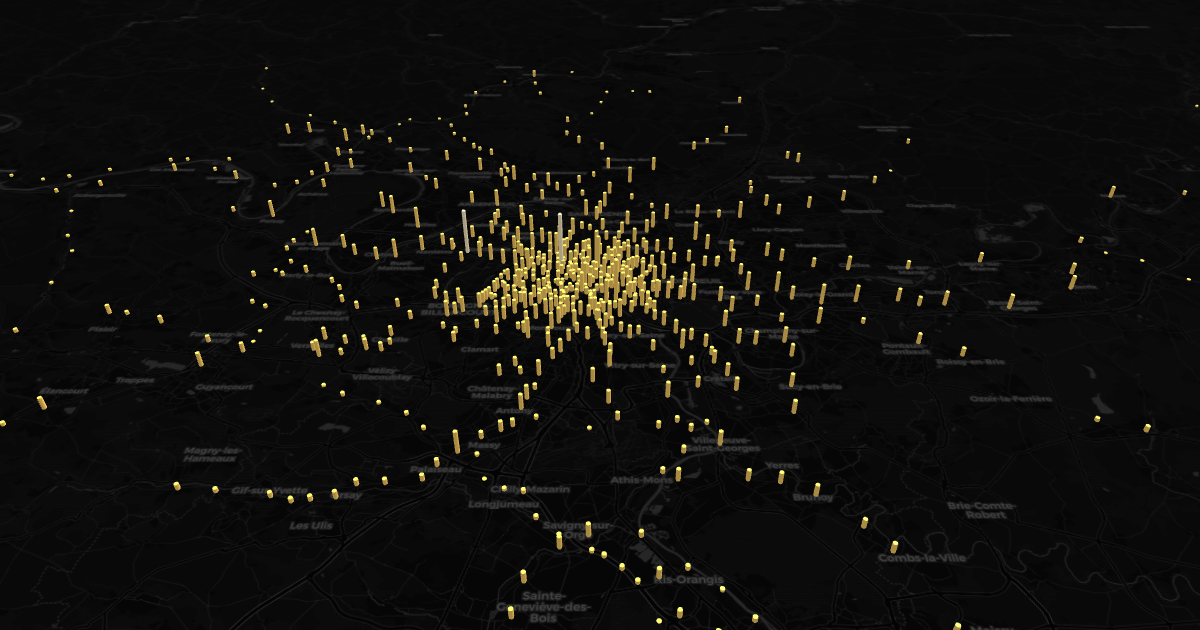
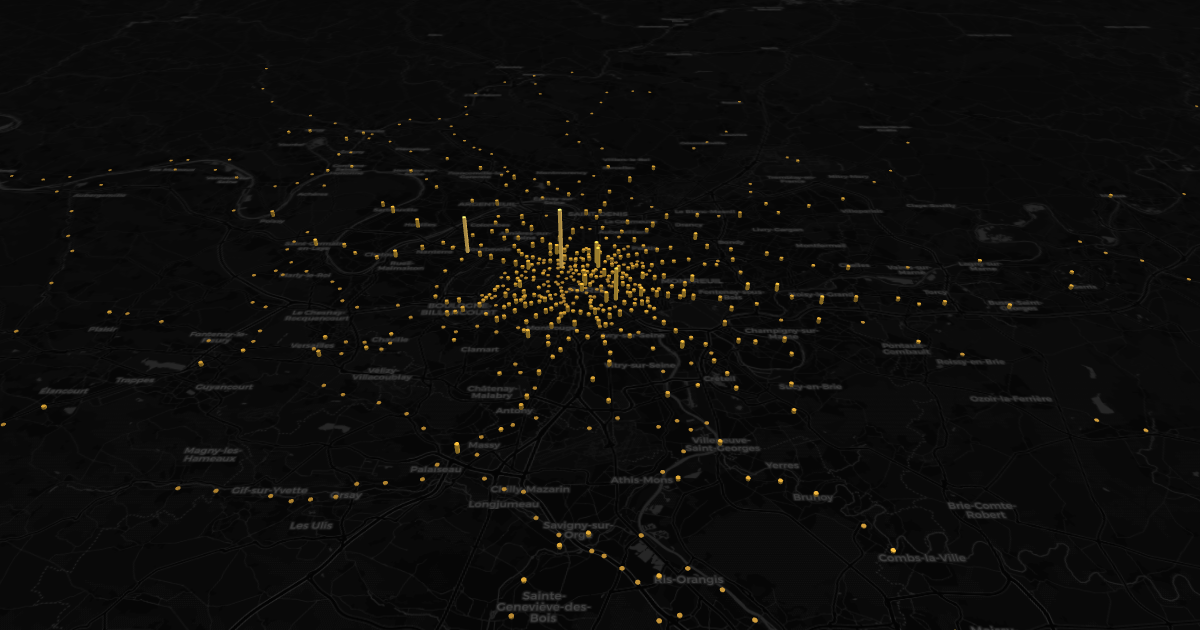
fix: relief spikes go linear in height with an amber intensity ramp so the summits actually tower

diff --git a/apps/site/src/components/ReliefMap.tsx b/apps/site/src/components/ReliefMap.tsx
@@ -10,7 +10,7 @@ import {
 import { ColumnLayer, ScatterplotLayer } from "@deck.gl/layers";
 import { loadLang, saveLang, type Lang } from "@/lib/lang";
 import { FLUX, RELIEF } from "@/lib/siteStrings";
-import { currentSearchParams, fmtClock } from "@/lib/viz";
+import { currentSearchParams, fmtClock, hexToRgb } from "@/lib/viz";
 import { createBasemapLayer, DECK_TOOLTIP_STYLE } from "./viz/basemap";
 import { mountDeck } from "./viz/deckMount";
 import { useAnimationClock } from "./viz/useAnimationClock";
@@ -48,11 +48,15 @@ const PARAM_OF_DAY: Record<DayType, "weekday" | "saturday" | "sunday"> = {
 };
 
 const DAY_SECONDS = 86400;
-// spikes in the site's gold, brighter when the station runs hot
-const SPIKE_RGB: [number, number, number] = [255, 209, 102];
-const SPIKE_HOT_RGB: [number, number, number] = [255, 240, 200];
+// height is linear in validations/hour (the honest length encoding: the
+// summits tower, the sea stays calm); color carries the mid-range through
+// the site's amber ramp, dark bronze to white-hot
+const SPIKE_HEX = ["#8a6a28", "#a9832c", "#c99e33", "#e9bc44", "#ffd166", "#fff0c2"];
+const SPIKE_RGB = SPIKE_HEX.map(hexToRgb);
+const SPIKE_BINS = [0.12, 0.25, 0.4, 0.6, 0.8]; // sqrt share of the peak
 const BASE_DOT_RGBA: [number, number, number, number] = [230, 232, 238, 60];
-const MAX_SPIKE_M = 5200; // La Défense at 6pm, in meters of column
+const MAX_SPIKE_M = 7000; // Saint-Lazare at 6pm, in meters of column
+const MIN_SPIKE_M = 40; // active stations register at least as a nub
 
 const SPEEDS = [
   { value: 600, label: "1×" },
@@ -145,6 +149,12 @@ export default function ReliefMap() {
     appliedRef.current = { quantized, day, meta };
 
     const sqrtMax = Math.sqrt(meta.maxPerHour);
+    const colorOf = (value: number): [number, number, number] => {
+      const share = Math.sqrt(value) / sqrtMax;
+      for (let bin = 0; bin < SPIKE_BINS.length; bin++)
+        if (share < SPIKE_BINS[bin]) return SPIKE_RGB[bin];
+      return SPIKE_RGB[SPIKE_BINS.length];
+    };
     deck.setProps({
       layers: [
         basemap,
@@ -167,12 +177,11 @@ export default function ReliefMap() {
           getPosition: (station) => [station.lon, station.lat],
           getElevation: (station) => {
             const value = valueAt(station[day], quantized);
-            return value <= 0 ? 0 : MAX_SPIKE_M * (Math.sqrt(value) / sqrtMax);
+            return value <= 0
+              ? 0
+              : Math.max(MIN_SPIKE_M, MAX_SPIKE_M * (value / meta.maxPerHour));
           },
-          getFillColor: (station) => {
-            const share = Math.sqrt(valueAt(station[day], quantized)) / sqrtMax;
-            return share > 0.62 ? SPIKE_HOT_RGB : SPIKE_RGB;
-          },
+          getFillColor: (station) => colorOf(valueAt(station[day], quantized)),
           updateTriggers: { getElevation: [quantized, day], getFillColor: [quantized, day] },
           material: {
             ambient: 0.55,

diff --git a/docs/relief.md b/docs/relief.md
@@ -40,12 +40,13 @@ few stops publish duplicated percentage rows upstream (profiles summing to
 400%+), so profiles are normalized by their own sum when they overshoot.
 
 On the client the landscape is a deck.gl spike map over the shared dark
-basemap: one column per station at its true coordinates, its height the
-square root of validations per hour (so the huge hubs do not crush the
-rest), the hour interpolated continuously as the clock advances, and the
-hottest spikes brightened. An earlier version drew an abstract ridgeline
-(latitude rows, joyplot style); it looked striking but carried no
-geography, so it was replaced by the map.
+basemap: one column per station at its true coordinates, its height linear
+in validations per hour (the honest length encoding: the summits tower,
+the sea stays calm), with the amber ramp from dark bronze to white-hot
+carrying the mid-range in color, and the hour interpolated continuously as
+the clock advances. An earlier version drew an abstract ridgeline (latitude
+rows, joyplot style); it looked striking but carried no geography, so it
+was replaced by the map.
 
 ## Data artifacts
 